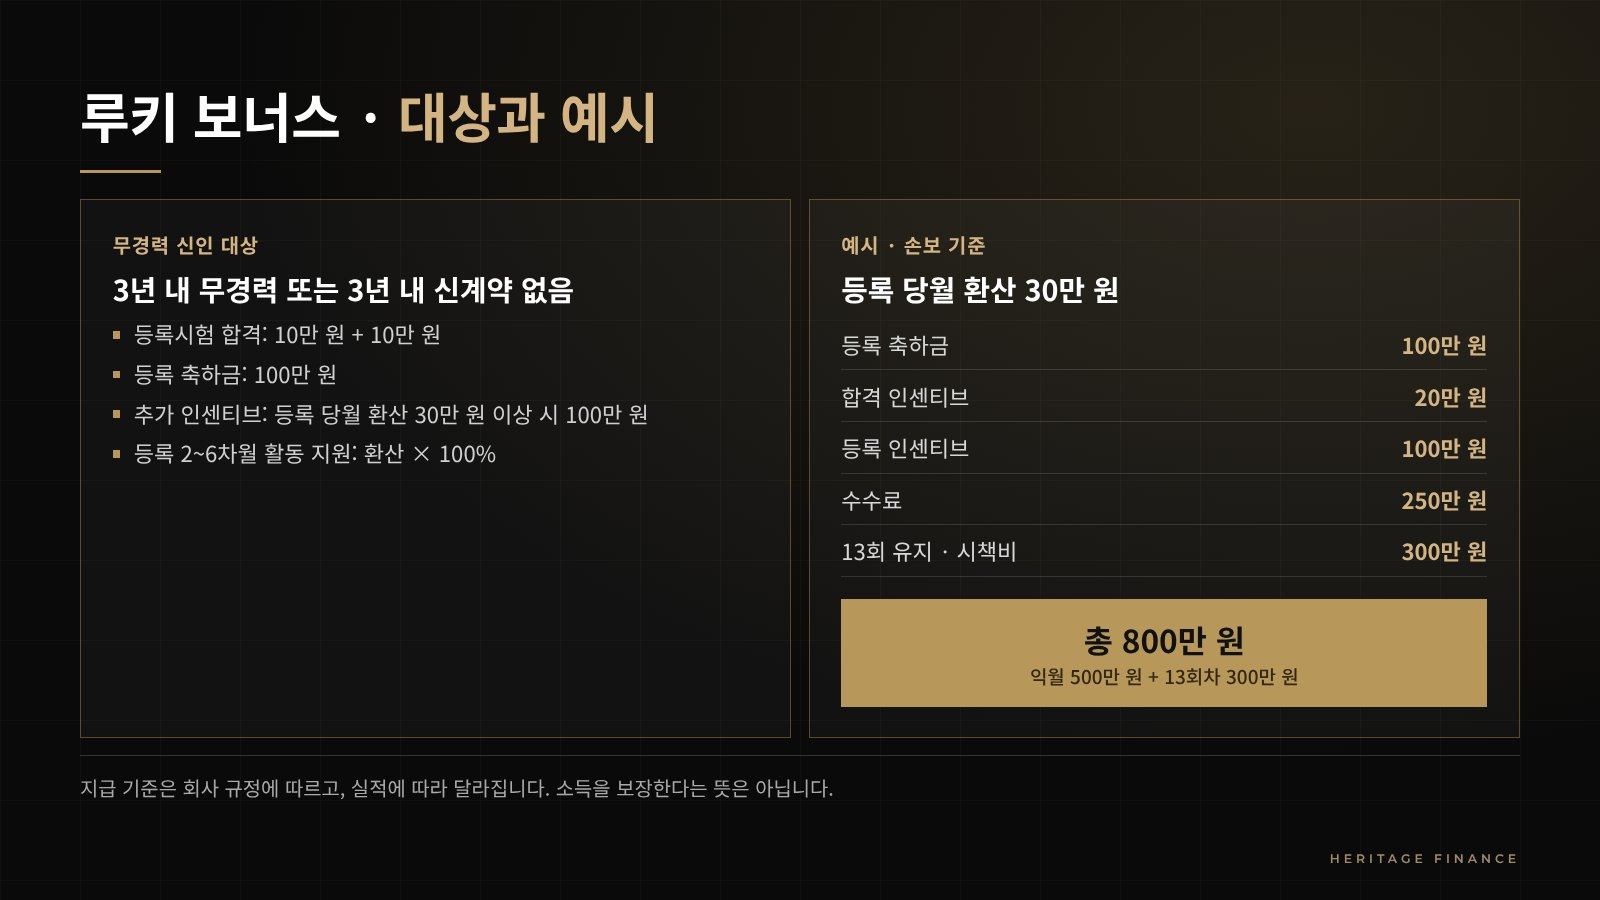
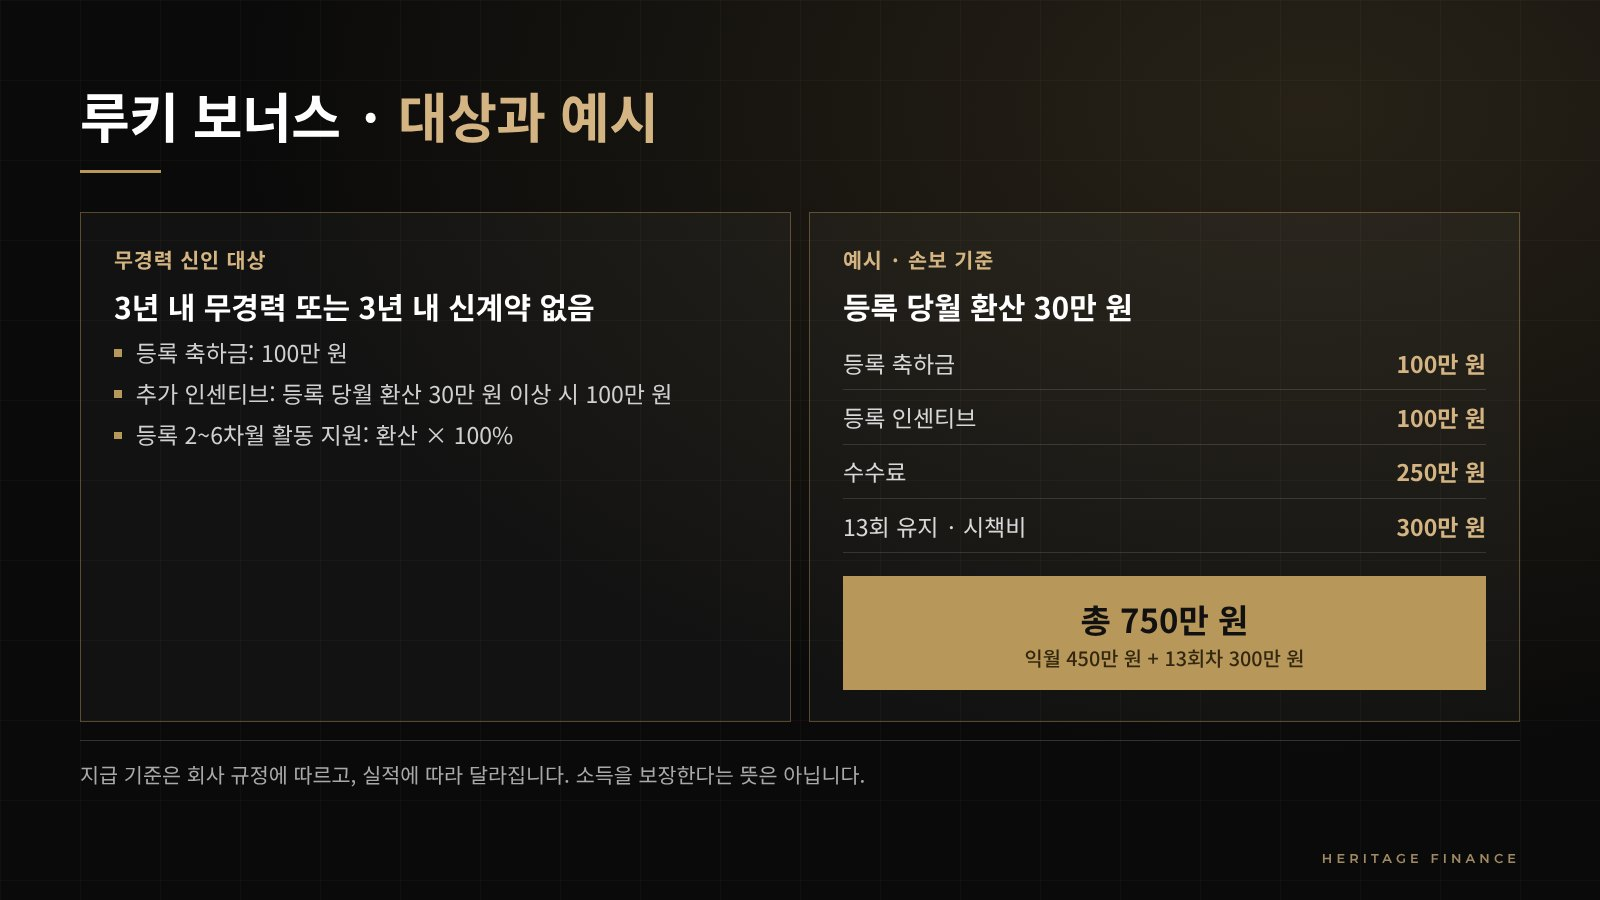
슬라이드 제목 한 줄 맞춤, 루키 보너스 예시에서 합격 항목 삭제 후 합계 재계산
- 제목은 글자 크기를 줄여 한 줄로, 그래도 길면 두 줄로 고르게 나눔
- 본문 두 줄 문장은 줄 길이를 고르게 정렬
- 루키 보너스: 등록시험 합격·합격 인센티브 삭제, 총 750만 원(익월 450 + 13회차 300)

Claude-Session: https://claude.ai/code/session_01YGqvv7Py9CprAfhAHhudmB

Changed region(s): [[0.0312, 0.2489, 0.9375, 0.9022], [0.0625, 0.2489, 0.4062, 0.5289], [0.8125, 0.9333, 0.9375, 0.9644]]

diff --git a/tools/slides.py b/tools/slides.py
@@ -26,7 +26,9 @@ h1{font-size:var(--t);font-weight:700;line-height:1.28;letter-spacing:-.01em}
 h1 em{font-style:normal;color:#d4b483}
 h1::after{content:'';display:block;width:calc(var(--t)*1.5);height:3px;background:#b8975a;margin-top:calc(var(--t)*.38)}
 .sub{font-size:var(--s);color:#bdbdbd;margin-top:calc(var(--s)*.9);line-height:1.5}
-h1{flex:none;margin-bottom:22px}
+h1{flex:none;margin-bottom:22px;white-space:nowrap}
+h1.two{white-space:normal;text-wrap:balance}
+p,li,h3,.node small,.cell small,.row span small{text-wrap:balance}
 .content{flex:1;display:flex;flex-direction:column;justify-content:center;gap:var(--gap);min-height:0}
 .mark{position:absolute;right:var(--pad);bottom:calc(var(--pad)*.42);font-family:'Montserrat',sans-serif;font-weight:600;font-size:calc(var(--s)*.56);letter-spacing:.32em;color:rgba(212,180,131,.75)}
 .cards{display:grid;grid-template-columns:repeat(var(--n),1fr);gap:var(--gap)}
@@ -298,12 +300,12 @@ SLIDES = {
          {'tall': '--t:58px;--gap:18px;--b:36px;--s:29px'}),
         ('루키 보너스 · <em>대상과 예시</em>',
          '<div class="split"><div class="card"><span class="tag">무경력 신인 대상</span><h3>3년 내 무경력 또는 3년 내 신계약 없음</h3>'
-         + ul(['등록시험 합격: 10만 원 + 10만 원', '등록 축하금: 100만 원', '추가 인센티브: 등록 당월 환산 30만 원 이상 시 100만 원', '등록 2~6차월 활동 지원: 환산 × 100%']) +
+         + ul(['등록 축하금: 100만 원', '추가 인센티브: 등록 당월 환산 30만 원 이상 시 100만 원', '등록 2~6차월 활동 지원: 환산 × 100%']) +
          '</div><div class="card"><span class="tag">예시 · 손보 기준</span><h3>등록 당월 환산 30만 원</h3>'
-         '<div style="margin-top:.6em"><div class="kv">등록 축하금<b>100만 원</b></div><div class="kv">합격 인센티브<b>20만 원</b></div><div class="kv">등록 인센티브<b>100만 원</b></div>'
+         '<div style="margin-top:.6em"><div class="kv">등록 축하금<b>100만 원</b></div><div class="kv">등록 인센티브<b>100만 원</b></div>'
          '<div class="kv">수수료<b>250만 원</b></div><div class="kv">13회 유지 · 시책비<b>300만 원</b></div></div>'
-         '<div class="total">총 800만 원<small>익월 500만 원 + 13회차 300만 원</small></div></div></div>' + FINE,
-         '루키 보너스 대상과 예시. 무경력 신인 대상으로 기준은 3년 내 무경력 또는 3년 내 신계약 없음. 등록시험 합격 10만 원 더하기 10만 원, 등록 축하금 100만 원, 등록 당월 환산 30만 원 이상 시 추가 인센티브 100만 원, 등록 2에서 6차월 활동 지원 환산의 100퍼센트. 손보 기준 등록 당월 환산 30만 원 예시: 등록 축하금 100만 원, 합격 인센티브 20만 원, 등록 인센티브 100만 원, 수수료 250만 원, 13회 유지·시책비 300만 원, 총 800만 원(익월 500만 원, 13회차 300만 원). 지급 기준은 회사 규정에 따르고 실적에 따라 달라집니다.',
+         '<div class="total">총 750만 원<small>익월 450만 원 + 13회차 300만 원</small></div></div></div>' + FINE,
+         '루키 보너스 대상과 예시. 무경력 신인 대상으로 기준은 3년 내 무경력 또는 3년 내 신계약 없음. 등록 축하금 100만 원, 등록 당월 환산 30만 원 이상 시 추가 인센티브 100만 원, 등록 2에서 6차월 활동 지원 환산의 100퍼센트. 손보 기준 등록 당월 환산 30만 원 예시: 등록 축하금 100만 원, 등록 인센티브 100만 원, 수수료 250만 원, 13회 유지·시책비 300만 원, 총 750만 원(익월 450만 원, 13회차 300만 원). 지급 기준은 회사 규정에 따르고 실적에 따라 달라집니다.',
          {'wide': '--b:30px;--s:23px;--t:54px;--gap:18px', 'tall': '--t:58px;--b:38px;--s:30px;--gap:20px'}),
         ('<em>장기 근속</em> 성장 지원금',
          flow(['1~12차월<small>1년 동안 체결한 총 보험료의 100%를 적립</small>', '*15차월부터<small>매달 차근차근 지급</small>']) +
@@ -381,7 +383,7 @@ def page(title, body, variant, opts=None):
         body = re.sub(r'--lw:[^"]*" data-lw-tall="([^"]*)"', r'--lw:\1"', body)
     return ('<!DOCTYPE html><html lang="ko"><head><meta charset="UTF-8">'
             '<link href="https://fonts.googleapis.com/css2?family=Cormorant+Garamond:wght@600;700&family=Noto+Sans+KR:wght@400;500;700&family=Montserrat:wght@600&display=swap" rel="stylesheet">'
-            f'<style>{CSS}</style></head><body class="{variant}" style="{(opts or {}).get(variant, "")}"><main><h1>{title}</h1>'
+            f'<style>{CSS}</style></head><body class="{variant}" style="{(opts or {}).get(variant, "")}"><main><h1><span>{title}</span></h1>'
             f'<div class="content">{body}</div></main><div class="mark">HERITAGE FINANCE</div></body></html>')
 
 
@@ -397,6 +399,21 @@ async def render(out_dir):
                     title, body = sl[0], sl[1]
                     await pg.set_content(page(title, body, variant, sl[3] if len(sl) > 3 else None), wait_until='networkidle')
                     await pg.evaluate('document.fonts.ready')
+                    # 제목: 글자 크기를 줄여 한 줄에 맞추고, 그래도 길면 두 줄로 고르게 나눈다
+                    tinfo = await pg.evaluate('''(()=>{const b=document.body,h=document.querySelector('h1'),sp=h.firstElementChild,
+                      base=parseFloat(getComputedStyle(b).getPropertyValue('--t')),set=v=>b.style.setProperty('--t',v+'px'),
+                      fits=()=>sp.getBoundingClientRect().width<=h.clientWidth+0.5;
+                      let t=base;while(!fits()&&t>base*0.85){t-=1;set(t)}
+                      if(fits())return '1줄 '+Math.round(t)+'px';
+                      // 두 줄: ' · ' 가 있으면 그 자리에서 나눈다
+                      const w=document.createTreeWalker(sp,NodeFilter.SHOW_TEXT);let last=null,n;
+                      while(n=w.nextNode())if(n.nodeValue.includes(' · '))last=n;
+                      if(last){const k=last.nodeValue.lastIndexOf(' · '),a=last.nodeValue.slice(0,k),c=last.nodeValue.slice(k+3);
+                        const f=document.createDocumentFragment();f.append(a,document.createElement('br'),c);last.replaceWith(f);
+                        t=base*0.92;set(t);while(!fits()&&t>base*0.6){t-=1;set(t)}}
+                      else{h.classList.add('two');t=base*0.9;set(t);
+                        const lh=()=>Math.round(sp.getClientRects().length);while(lh()>2&&t>base*0.6){t-=1;set(t)}}
+                      return '2줄 '+Math.round(t)+'px'})()''')
                     # 넘치면 글자·간격을 조금씩 줄여 맞춘다
                     over = await pg.evaluate('''(()=>{const m=document.querySelector('.content'),b=document.body,
                       get=()=>m.scrollHeight-m.clientHeight;
@@ -405,7 +422,7 @@ async def render(out_dir):
                       return get()})()''')
                     path = os.path.join(out_dir, f'{prefix}-{i}{suffix}.jpg')
                     await pg.screenshot(path=path, type='jpeg', quality=86)
-                    print(path, 'OVERFLOW %dpx' % over if over > 2 else 'ok')
+                    print(path, tinfo, 'OVERFLOW %dpx' % over if over > 2 else 'ok')
             await pg.close()
         await browser.close()
 
